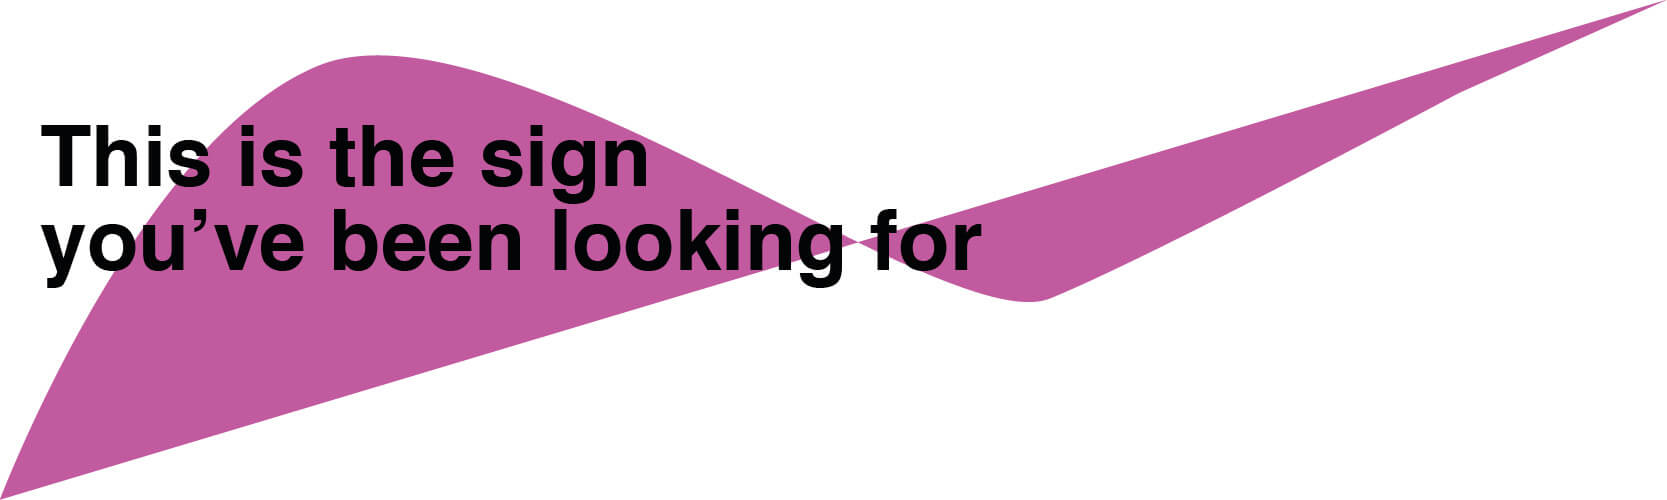
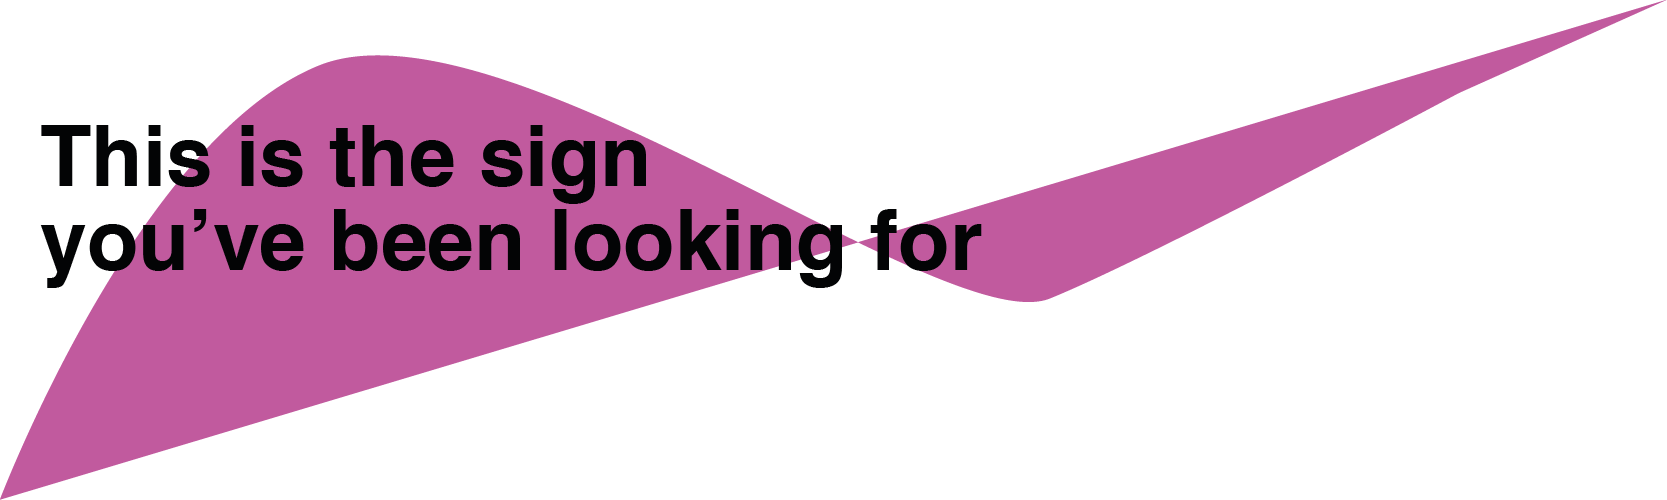
CHANGE background index

diff --git a/index.html b/index.html
@@ -57,11 +57,11 @@
     </nav>
   </header>
   <main>
-    <section class="d-flex justify-content-center">
+    <section class="d-flex justify-content-center mt-4 pt-5">
       <img class="background" src="./public/img/Background/background.svg" alt="ByM-logo">
     </section>
   </main>
-  <footer class="mt-5">
+  <footer>
     <div class="redes d-flex justify-content-center">
       <a href=""><i class="fa-brands fa-instagram text-black ms-2 me-2" id="ig"></i></a>
       <a href="https://www.behance.net/macarenbernal"

diff --git a/public/scss/_main.scss b/public/scss/_main.scss
@@ -1,6 +1,6 @@
 main {
   .background {
-    max-width: 100vw;
+    max-width: 80vw;
     height: 90vh;
   }
 
